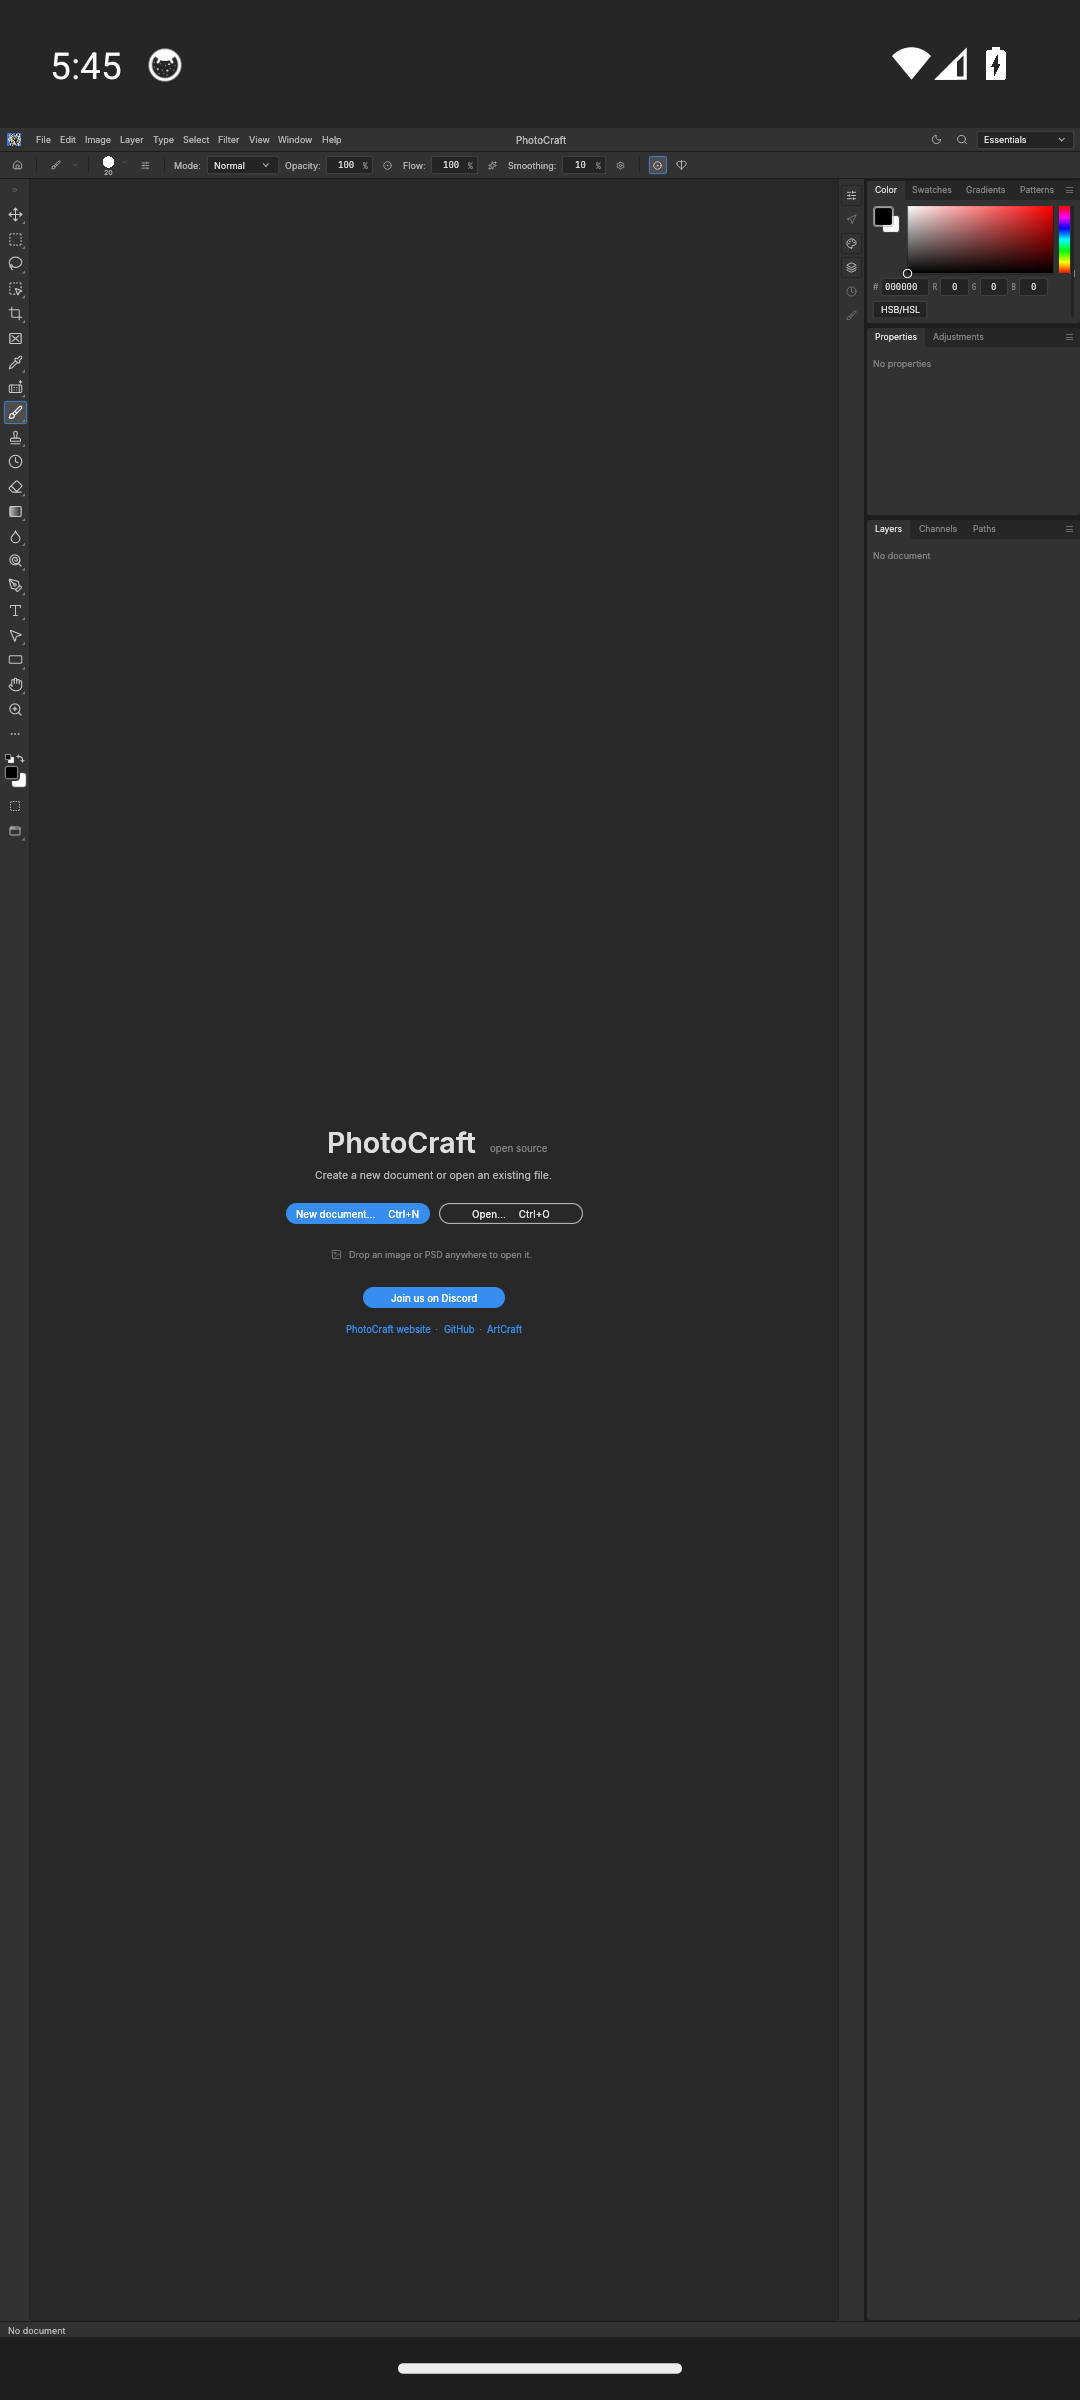
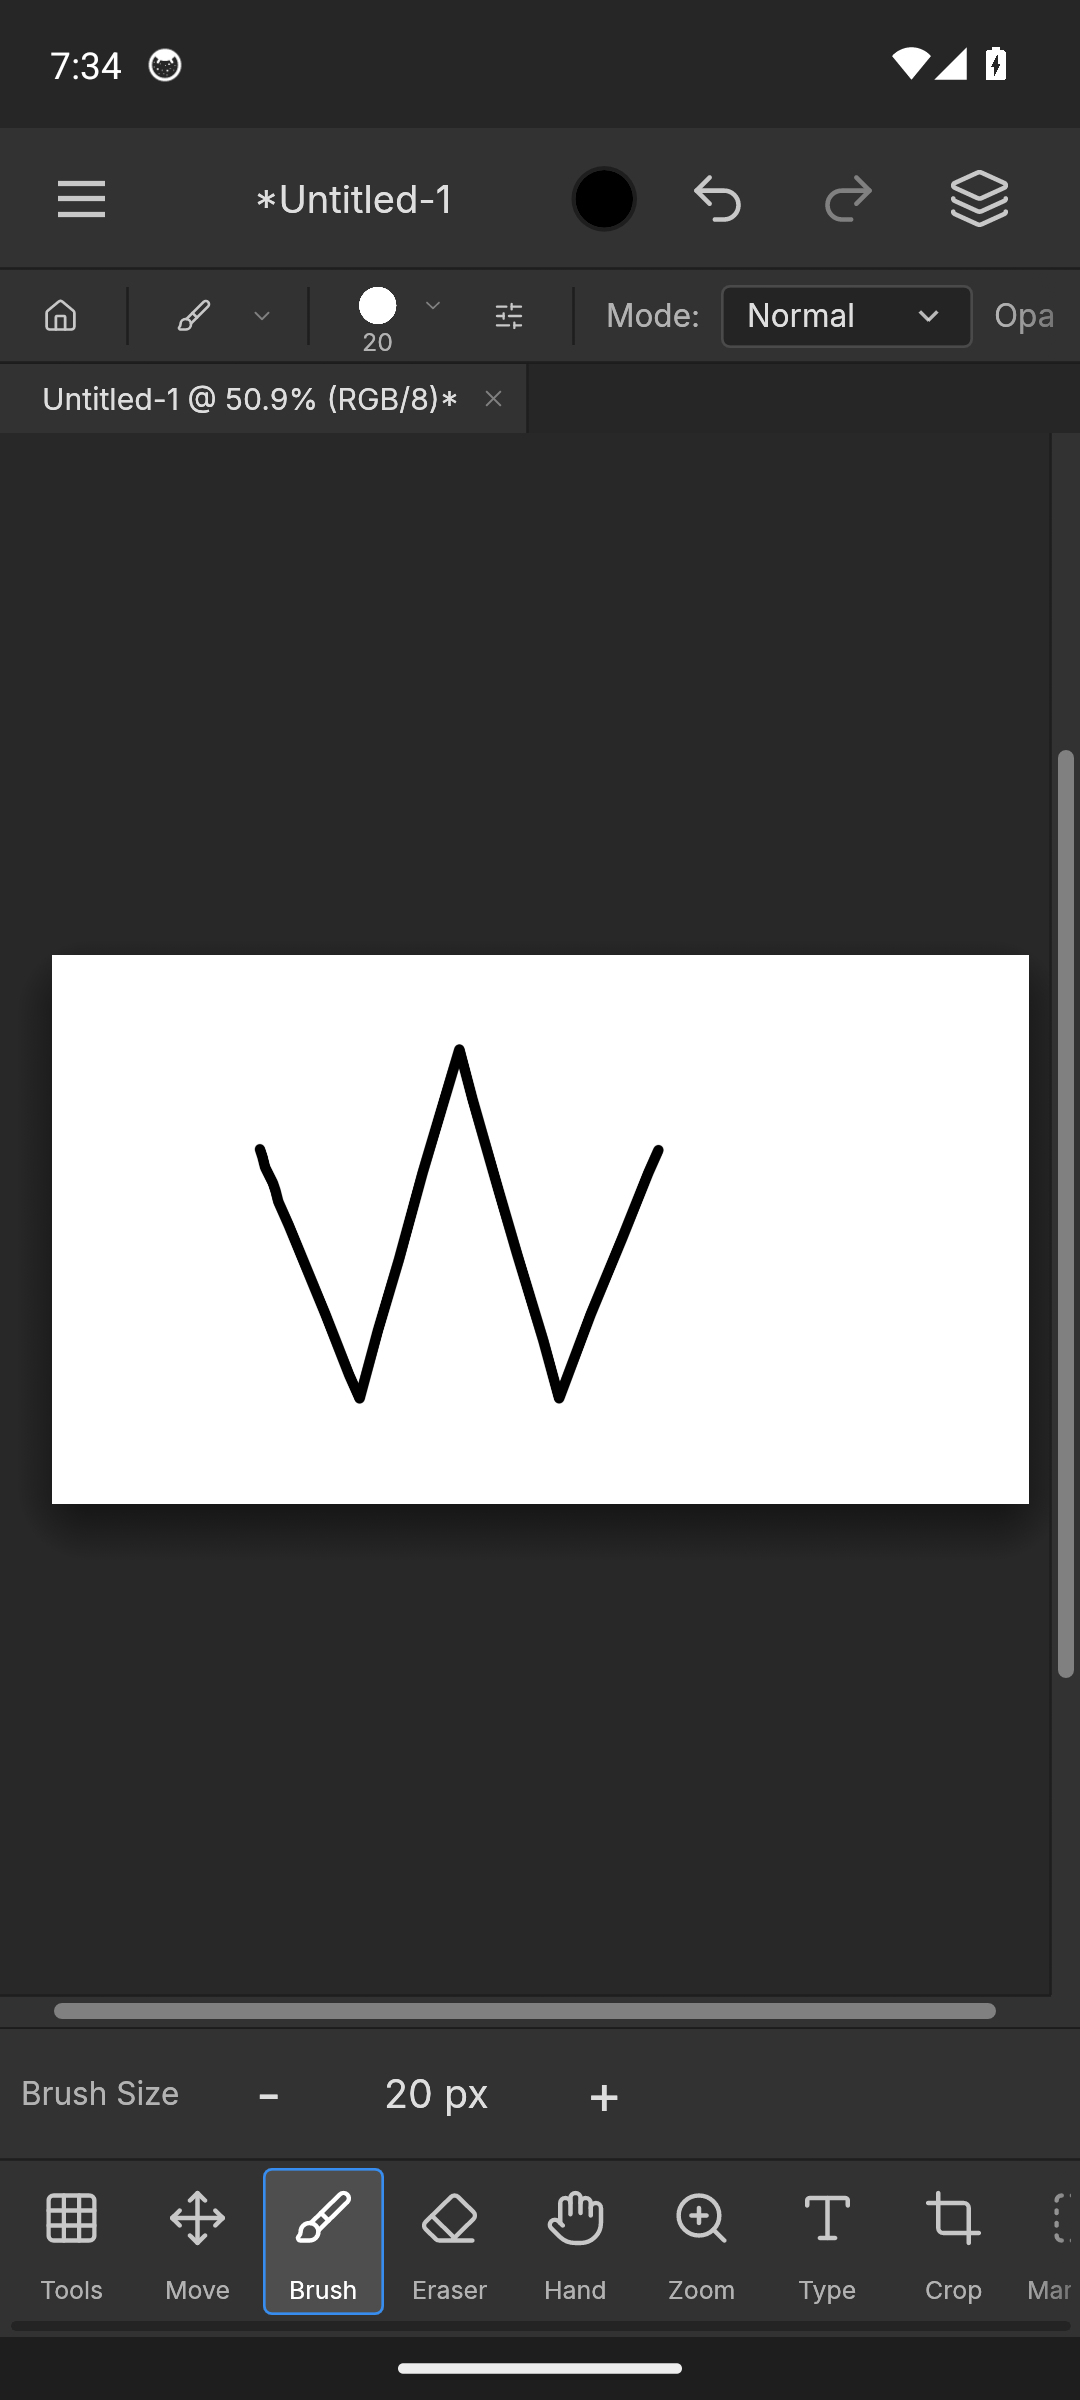
Show the touch-first editor and a painted stroke in the README [skip ci]

diff --git a/README.md b/README.md
@@ -17,7 +17,7 @@
 </p>
 
 <p align="center">
-  <img src="docs/screenshot-android.png" alt="PhotoCraft running on an Android emulator with its touch-first top bar, bottom tool strip and document canvas" width="100%">
+  <img src="docs/screenshot-android.png" alt="PhotoCraft running on an Android emulator: touch-first top bar, brush-size control, painted document and bottom tool strip" width="100%">
 </p>
 
 > **Unofficial Android port.** PhotoCraft is created by [Storytold / ArtCraft](https://github.com/storytold/photocraft). This repository packages the upstream editor for Android and is not affiliated with Adobe or with the upstream project. Upstream is MIT / Apache-2.0; see [ATTRIBUTION.md](ATTRIBUTION.md).
